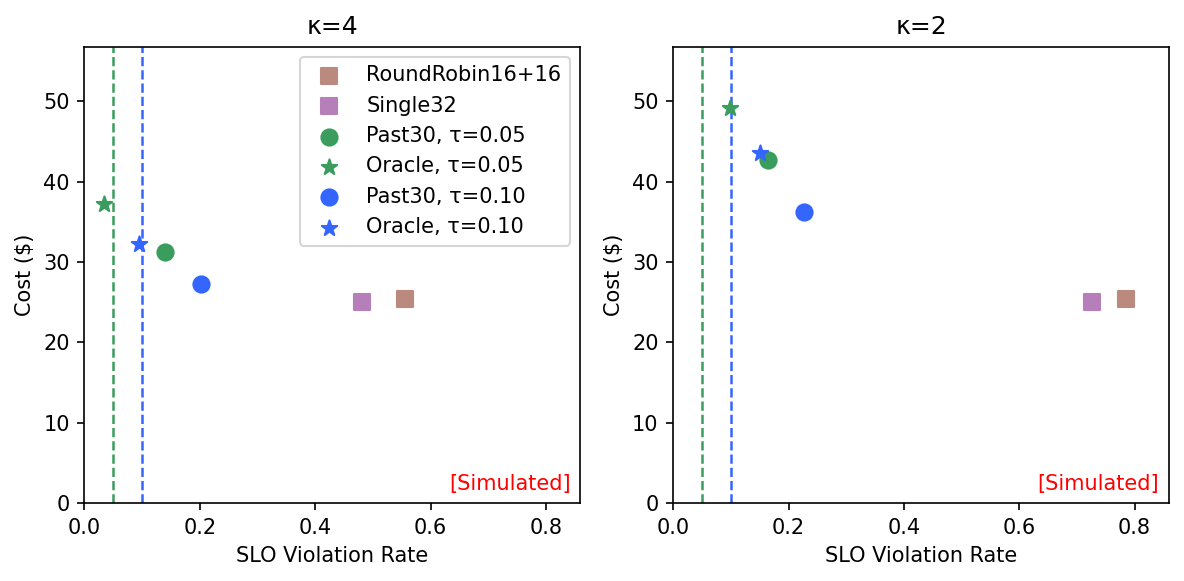
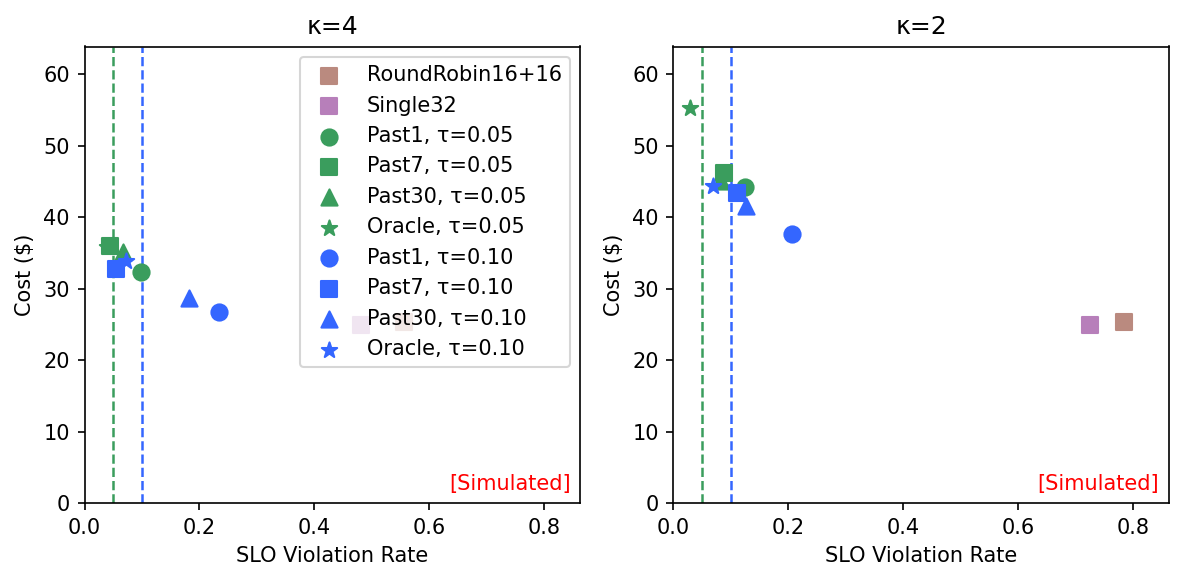
v4 and v6 plots checkpoint

diff --git a/data/plots/main_eval_v6/main_eval_v6.tex b/data/plots/main_eval_v6/main_eval_v6.tex
@@ -11,10 +11,10 @@
 $\lambda$ & $\kappa$ & C & \multicolumn{2}{c|}{RoundRobin16+16} & \multicolumn{2}{c|}{Single32} & \multicolumn{2}{c|}{Past1, τ=0.05} & \multicolumn{2}{c|}{Past7, τ=0.05} & \multicolumn{2}{c|}{Past30, τ=0.05} & \multicolumn{2}{c|}{Oracle, τ=0.05} & \multicolumn{2}{c|}{Past1, τ=0.10} & \multicolumn{2}{c|}{Past7, τ=0.10} & \multicolumn{2}{c|}{Past30, τ=0.10} & \multicolumn{2}{c}{Oracle, τ=0.10} \\
  &  &  & VR & Cost & VR & Cost & VR & Cost & VR & Cost & VR & Cost & VR & Cost & VR & Cost & VR & Cost & VR & Cost & VR & Cost \\
 \hline
-κ=4 &  &  & 0.5553 & \$25.37 & 0.4820 & \$24.98 & 0.0977 & \$32.35 & \underline{0.0438} & \$35.95 & 0.0661 & \$35.13 & \textbf{0.0388} & \$35.88 & 0.2349 & \$26.67 & 0.0546 & \$32.79 & 0.1810 & \$28.63 & 0.0718 & \$33.82 \\
-κ=2 &  &  & 0.7845 & \$25.37 & 0.7256 & \$24.98 & 0.1250 & \$44.16 & 0.0884 & \$46.17 & 0.0833 & \$45.11 & \textbf{0.0295} & \$55.29 & 0.2069 & \$37.67 & 0.1114 & \$43.43 & 0.1264 & \$41.53 & \underline{0.0690} & \$44.40 \\
+κ=4 &  &  & 0.5869 & \$28.18 & 0.3649 & \$24.20 & 0.0761 & \$33.95 & \underline{0.0388} & \$35.36 & 0.0869 & \$32.90 & \textbf{0.0338} & \$36.43 & 0.1142 & \$31.25 & 0.0876 & \$34.18 & 0.1214 & \$29.85 & 0.0711 & \$31.84 \\
+κ=2 &  &  & 0.8369 & \$28.18 & 0.6135 & \$24.20 & 0.0819 & \$45.90 & 0.0553 & \$48.05 & 0.1099 & \$44.02 & \textbf{0.0259} & \$49.68 & 0.1530 & \$43.07 & 0.0912 & \$46.99 & 0.0761 & \$45.46 & \underline{0.0496} & \$48.83 \\
 \hline
-\multicolumn{3}{c||}{\textit{Mean~$\Delta$}} & --- & --- & -10.4\% & -1.5\% & -83.2\% & +50.8\% & \underline{-90.4\%} & +61.9\% & -88.7\% & +58.1\% & \textbf{-94.6\%} & +79.7\% & -65.7\% & +26.8\% & -88.0\% & +50.2\% & -75.6\% & +38.3\% & -89.1\% & +54.2\% \\
+\multicolumn{3}{c||}{\textit{Mean~$\Delta$}} & --- & --- & -32.3\% & -14.1\% & -88.6\% & +41.7\% & \underline{-93.4\%} & +48.0\% & -86.0\% & +36.5\% & \textbf{-95.6\%} & +52.8\% & -81.1\% & +31.9\% & -87.1\% & +44.0\% & -85.1\% & +33.6\% & -91.0\% & +43.1\% \\
 \bottomrule
 \end{tabular}}
 \caption{Mean improvement is relative to RoundRobin16+16.}

diff --git a/data/plots/main_eval_v6/main_eval_v6#live.tex b/data/plots/main_eval_v6/main_eval_v6#live.tex
@@ -1,0 +1,23 @@
+\documentclass{article}
+\usepackage{booktabs}
+\usepackage{amsmath}
+\usepackage[landscape, margin=1cm]{geometry}
+\begin{document}
+\begin{table}[ht]
+\centering
+\resizebox{\columnwidth}{!}{
+\begin{tabular}{c c c || c c | c c | c c | c c}
+\toprule
+$\lambda$ & $\kappa$ & C & \multicolumn{2}{c|}{RoundRobin16+16} & \multicolumn{2}{c|}{Single32} & \multicolumn{2}{c|}{Oracle, τ=0.05} & \multicolumn{2}{c}{Oracle, τ=0.10} \\
+ &  &  & VR & Cost & VR & Cost & VR & Cost & VR & Cost \\
+\hline
+κ=4 &  &  & 0.4080 & \$27.81 & 0.1537 & \$28.11 & \textbf{0.0783} & \$47.50 & \underline{0.1466} & \$46.43 \\
+κ=2 &  &  & 0.6559 & \$27.81 & 0.3427 & \$28.11 & \underline{0.1767} & \$65.81 & \textbf{0.1537} & \$61.91 \\
+\hline
+\multicolumn{3}{c||}{\textit{Mean~$\Delta$}} & --- & --- & -55.0\% & +1.1\% & \textbf{-76.9\%} & +103.7\% & \underline{-70.3\%} & +94.7\% \\
+\bottomrule
+\end{tabular}}
+\caption{Mean improvement is relative to RoundRobin16+16.}
+\label{tab:TODO}
+\end{table}
+\end{document}
